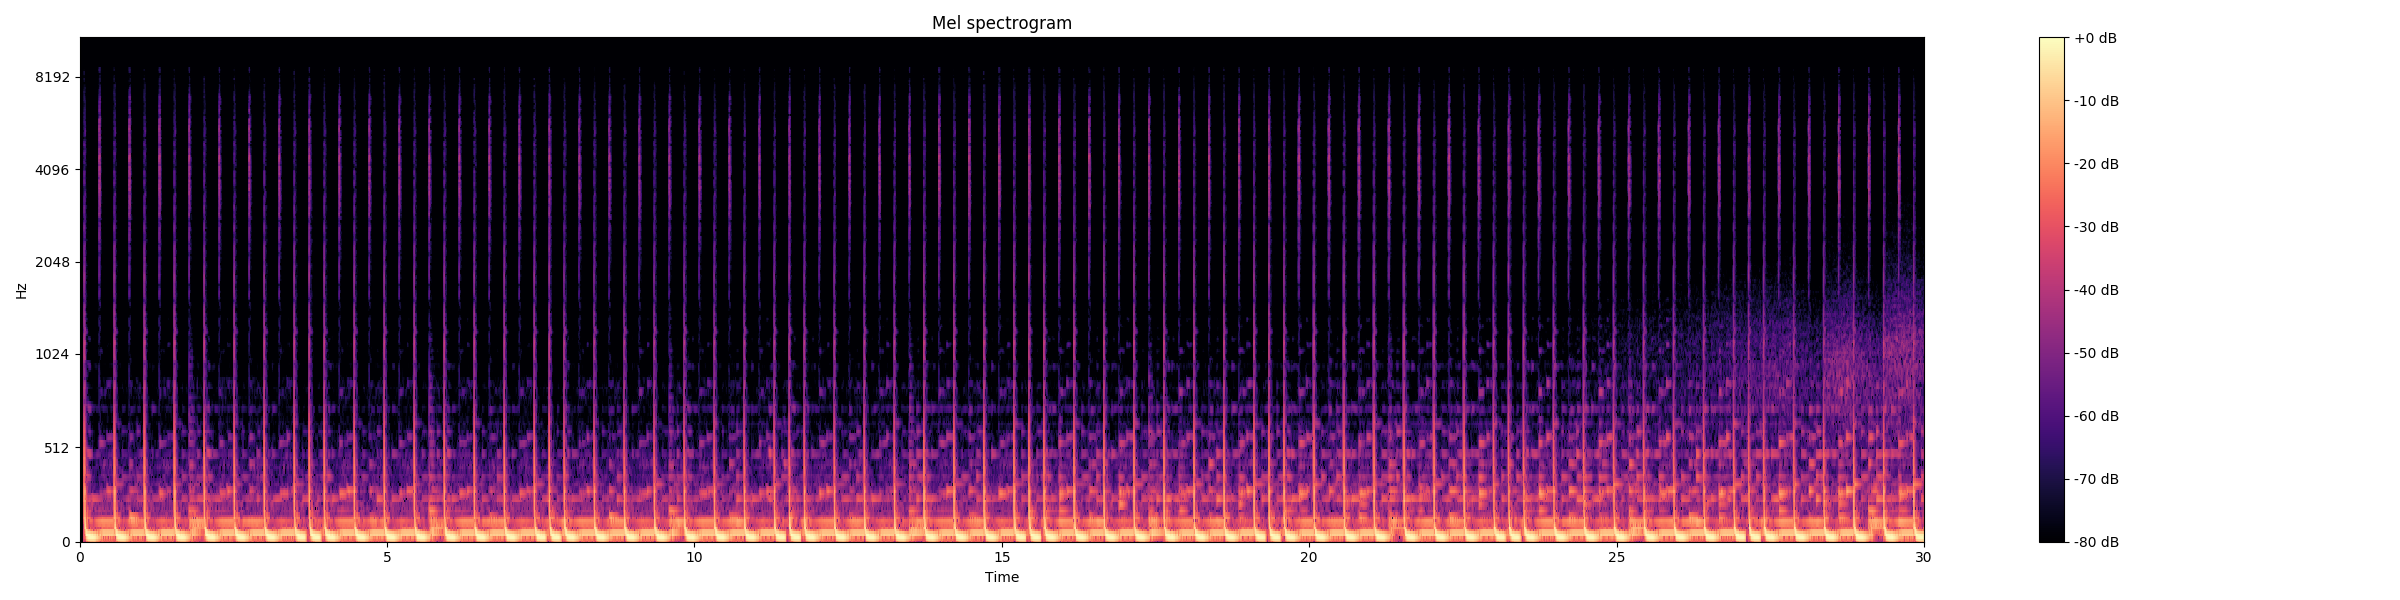
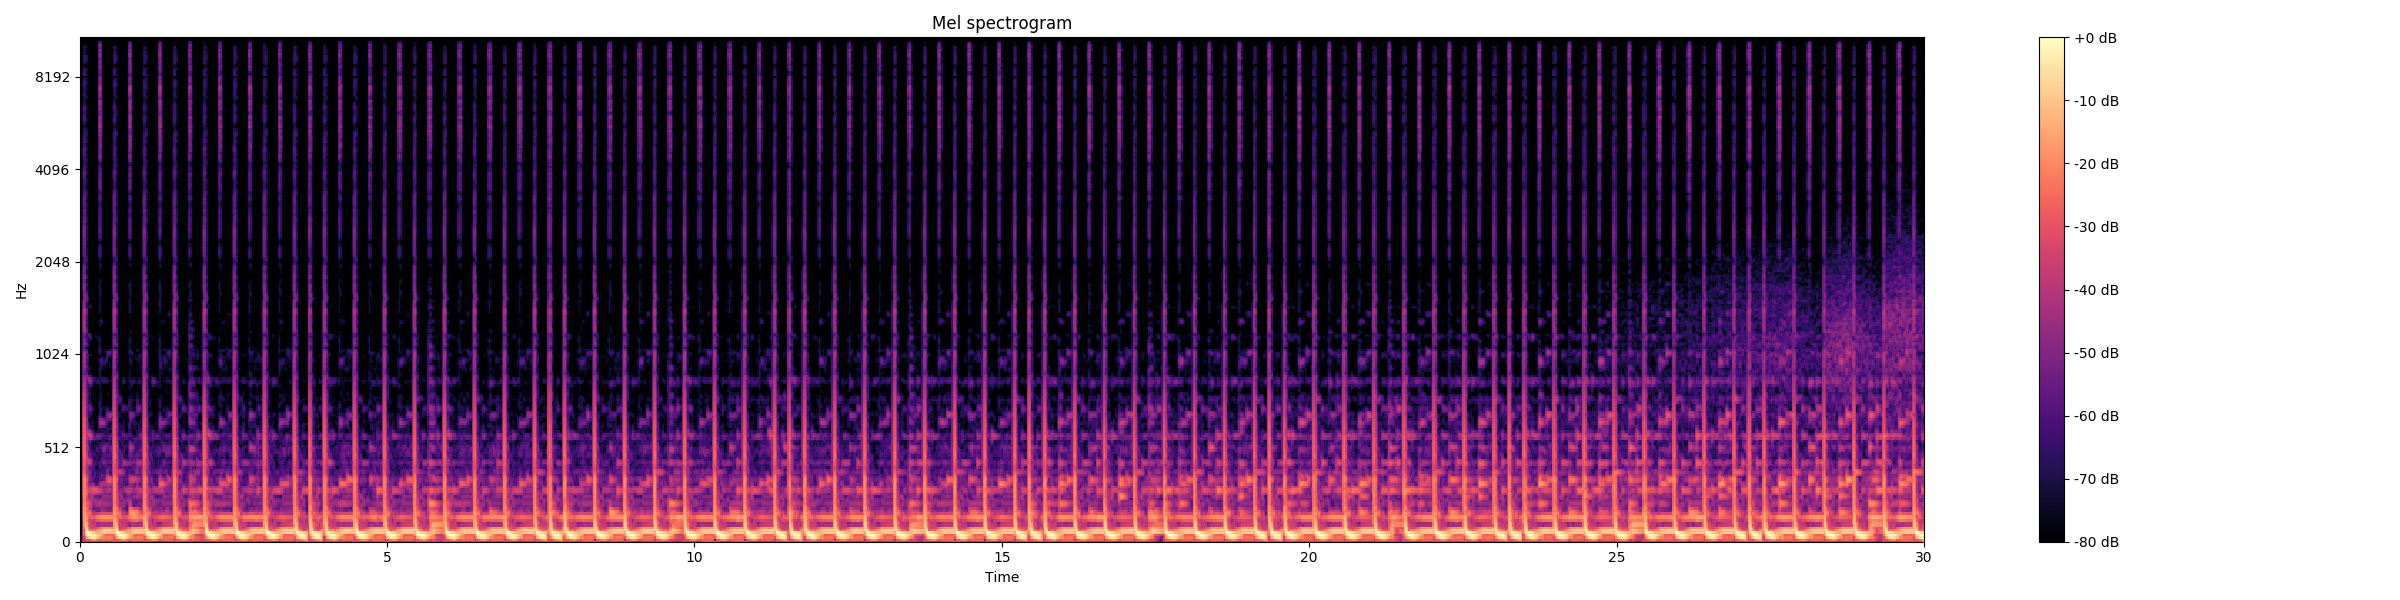
testing another net

Changed region(s): [[0.0312, 0.06, 0.8125, 0.9]]

diff --git a/deep_features/model_small.py b/deep_features/model_small.py
@@ -3,62 +3,74 @@ import torch, torchvision
 import torch.nn as nn
 import torch.nn.functional as F
 
-class ConvClassifier(nn.Module):
+class LSTM(nn.Module):
 
     def __init__(self, input_dim, batch_size, output_dim=8, num_layers=2, dropout=0.4):
-        super(ConvClassifier, self).__init__()
+        super(LSTM, self).__init__()
         self.input_dim = input_dim
         self.batch_size = batch_size
         self.num_layers = num_layers
 
-        self.hidden_dim1 = 128
-        self.hidden_dim2 = 64   
+        self.hidden_dim1 = 96
+        self.hidden_dim2 = 64  
         self.hidden_dim3 = 32
-        self.linear_dim = 64
+        self.lstm_hidden = 64
+        self.linear_dim = 32
         
-        self.conv1 = nn.Conv1d(self.input_dim, self.hidden_dim1, 5)
-        self.conv2 = nn.Conv1d(self.hidden_dim1, self.hidden_dim2, 5)
-        self.conv3 = nn.Conv1d(self.hidden_dim2, self.hidden_dim3, 5)
+        self.conv1 = nn.Conv1d(self.input_dim, self.hidden_dim1, 5, padding=2)
+        self.conv2 = nn.Conv1d(self.hidden_dim1, self.hidden_dim2, 5, padding=2)
+        self.conv3 = nn.Conv1d(self.hidden_dim2, self.hidden_dim3, 5, padding=2)
 
         self.batchnorm1 = nn.BatchNorm1d(self.hidden_dim1, momentum=0.9)
         self.batchnorm2 = nn.BatchNorm1d(self.hidden_dim2, momentum=0.9)
         self.batchnorm3 = nn.BatchNorm1d(self.hidden_dim3, momentum=0.9)
 
-        self.linear = nn.Linear(5024, self.linear_dim) #10176
+        self.lstm = nn.LSTM(self.hidden_dim3, self.lstm_hidden, self.num_layers, batch_first=True)
+        self.normLSTM = nn.BatchNorm1d(self.lstm_hidden, momentum=0.9)
+
+        self.linear = nn.Linear(self.lstm_hidden, self.linear_dim)
         self.normLin = nn.BatchNorm1d(self.linear_dim, momentum=0.9)
 
         self.output = nn.Linear(self.linear_dim, output_dim)
         #self.output = nn.Linear(self.lstm_hidden, output_dim)
 
-        self.maxpool = nn.MaxPool1d(2)
+        self.maxpool = nn.MaxPool1d(4)
         self.relu = nn.ReLU()
-        self.convDrop = nn.Dropout(p=dropout)
         self.dropout = nn.Dropout(p=dropout)
 
-    def forward(self, X):
-        #print(X.shape)
+    def init_hidden(self, device):
+        return (torch.zeros(self.num_layers, self.batch_size, self.lstm_hidden).to(device),
+                torch.zeros(self.num_layers, self.batch_size, self.lstm_hidden).to(device))
+
+    def convolve(self, X):
         X = self.conv1(X.view(X.shape[0],X.shape[2],X.shape[1]))
         X = self.batchnorm1(X)
         X = self.relu(X)
-        X = self.maxpool(X)
-        X = self.convDrop(X)
+        X = self.dropout(X)
 
         X = self.conv2(X)
         X = self.batchnorm2(X)
         X = self.relu(X)
-        X = self.maxpool(X)
-        X = self.convDrop(X)
+        X = self.dropout(X)
 
         X = self.conv3(X)
         X = self.batchnorm3(X)
         X = self.relu(X)
-        X = self.maxpool(X)
-        X = self.convDrop(X)
+    
+        return X.view(X.shape[0],X.shape[2],X.shape[1])
+
+    def forward(self, X):
+        X = self.convolve(X)
         
-        X = self.linear(X.view(X.shape[0], -1))
+        X = self.maxpool(X.view(X.shape[0], X.shape[2], X.shape[1]))
+        X = self.dropout(X.view(X.shape[0], X.shape[2], X.shape[1]))
+
+        lstm_out, hidden = self.lstm(X, self.hidden)
+        X = self.normLSTM(lstm_out[:,-1].view(X.shape[0], -1))
+
+        X = self.linear(X)
         X = self.normLin(X)
-        X = self.relu(X)
-        #print(X.shape)
+
         X = self.output(X)
         X = F.log_softmax(X, dim=1)
         return X

diff --git a/deep_features/features_small.py b/deep_features/features_small.py
@@ -1,20 +1,19 @@
-print("FUCKTHISFUCKINGSHIT")
 import torch
 import torch.nn as nn
 import torch.optim as optim
 from torch.utils.data import DataLoader
-from model_small import ConvClassifier
+from model_small import LSTM
 from dataset import SoundfileDataset
 from tqdm import tqdm
 import os
 import numpy as np
-print("fuckitevenmore")
-
+import matplotlib.pyplot as plt
 
 n_fft = 2**11
-hop_length = 2**9
+hop_length = 367
+#hop_length = 2**9
 n_mels = 128
-n_time_steps = 1290
+n_time_steps = 1800
 n_layers = 2
 NORMALIZE = True
 
@@ -29,10 +28,10 @@ log_intervall = 50
 
 #datapath = "./mels_set_db"
 datapath = "./mels_set_f{}_h{}_b{}".format(n_fft, hop_length, n_mels)
-statepath = "./conv_f{}_h{}_b{}".format(n_fft, hop_length, n_mels)
+statepath = "./lstm_f{}_h{}_b{}_nomax".format(n_fft, hop_length, n_mels)
 #statepath = "conv_small_b128"
 
-device = "cuda:1"
+device = "cuda"
 
 dset = SoundfileDataset("./all_metadata.p", ipath=datapath, out_type="mel", normalize=NORMALIZE, n_time_steps=n_time_steps)
 if DEBUG:
@@ -43,7 +42,7 @@ tset, vset = dset.get_split(sampler=False)
 TLoader = DataLoader(tset, batch_size=batch_size, shuffle=True, drop_last=True, num_workers=num_workers)
 VLoader = DataLoader(vset, batch_size=batch_size, shuffle=False, drop_last=True, num_workers=num_workers)
 
-model = ConvClassifier(n_mels, batch_size, num_layers=n_layers)
+model = LSTM(n_mels, batch_size, num_layers=n_layers)
 loss_function = nn.NLLLoss()
 optimizer = optim.Adam(model.parameters(), lr=l_rate)
 scheduler = optim.lr_scheduler.ReduceLROnPlateau(optimizer, patience=10, verbose=True)
@@ -51,10 +50,11 @@ scheduler = optim.lr_scheduler.ReduceLROnPlateau(optimizer, patience=10, verbose
 val_loss_list, val_accuracy_list, epoch_list = [], [], []
 loss_function.to(device)
 model.to(device)
+model.hidden = model.init_hidden(device)
 
 for epoch in tqdm(range(n_epochs), desc='Epoch'):
     train_running_loss, train_acc = 0.0, 0.0
-
+    model.train()
     for idx, (X, y) in enumerate(tqdm(TLoader, desc="Training")):
         X, y = X.to(device), y.to(device)
         model.zero_grad()
@@ -86,7 +86,7 @@ for epoch in tqdm(range(n_epochs), desc='Epoch'):
                 val_acc / len(VLoader),
             )
         )
-    model.train()
+    
     epoch_list.append(epoch)
     val_accuracy_list.append(val_acc / len(VLoader))
     val_loss_list.append(val_running_loss / len(VLoader))
@@ -100,7 +100,6 @@ for epoch in tqdm(range(n_epochs), desc='Epoch'):
         del state
         torch.cuda.empty_cache()
 
-import matplotlib.pyplot as plt
 # visualization loss
 plt.plot(epoch_list, val_loss_list)
 plt.ylim(0, np.max(val_loss_list))

diff --git a/deep_features/dataset.py b/deep_features/dataset.py
@@ -11,7 +11,7 @@ import librosa
 
 class SoundfileDataset(Dataset):
 
-    def __init__(self, path="./all_metadata.p", ipath="./mels_set", hotvec=False, out_type='raw', n_time_steps=None, normalize=True):
+    def __init__(self, path="./all_metadata.p", ipath="./mels_set", hotvec=False, out_type='raw', n_time_steps=None, normalize=True, filter_list=None):
         _, ext = os.path.splitext(path)
         if ext == ".p":
             d = pickle.load(open(path, 'rb'))
@@ -25,6 +25,9 @@ class SoundfileDataset(Dataset):
         
         if out_type == 'mel' or out_type == 'ae' or out_type == 'gan':
             d = {k:v for k,v in d.items() if os.path.isfile(os.path.join(ipath, v['path'][:-3] + "npy")) and v["track"]["genre_top"] != ""}
+
+        if filter_list:
+            d = {k:v for k,v in d.items() if v["track"]["genre_top"] not in filter_list}
         
         # Generate class-idx-converter
         classes = set()
